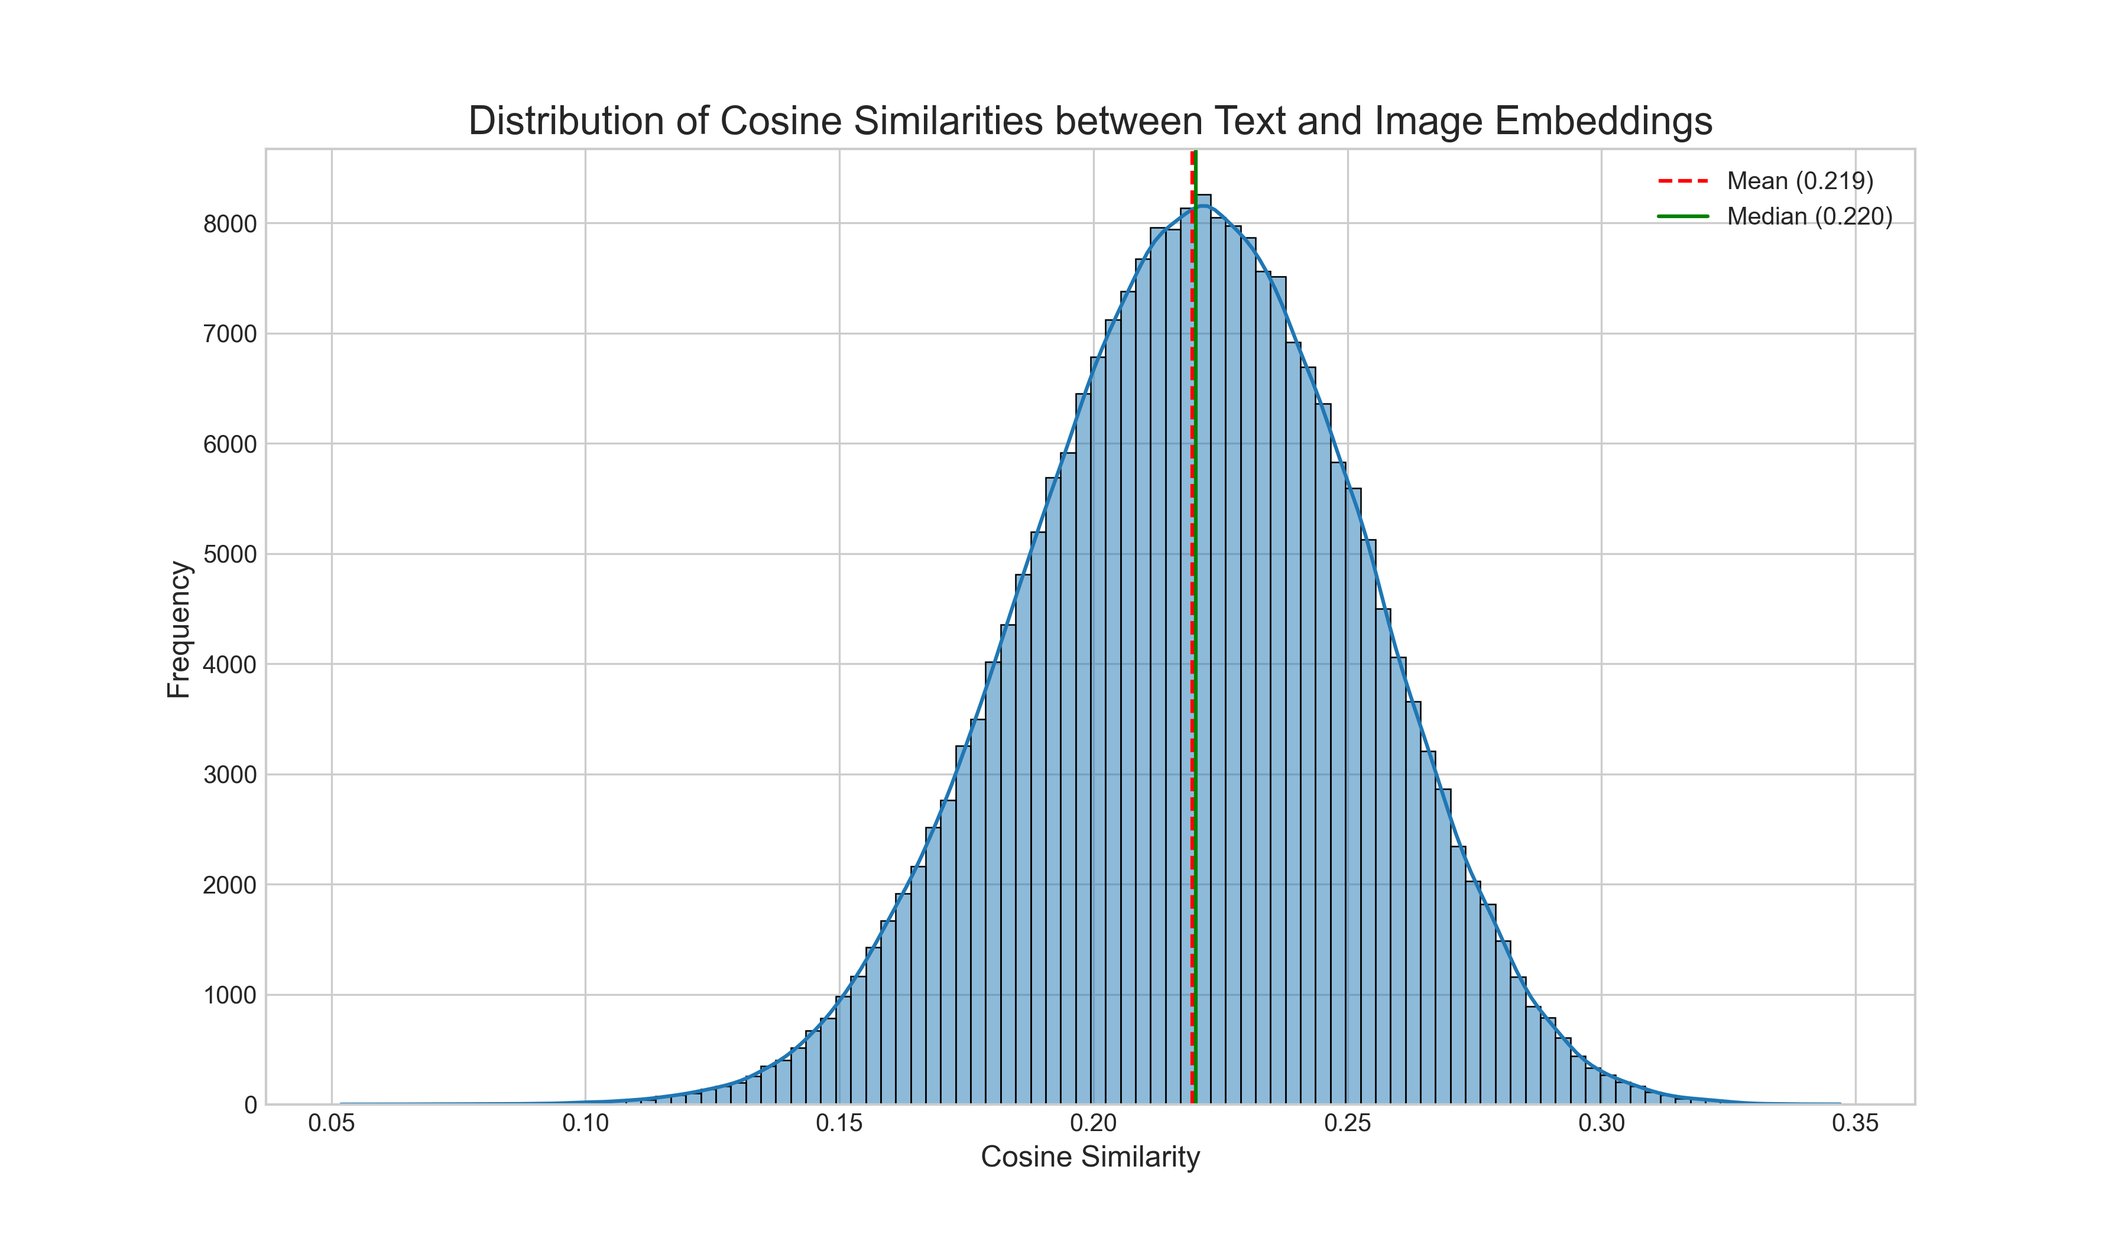
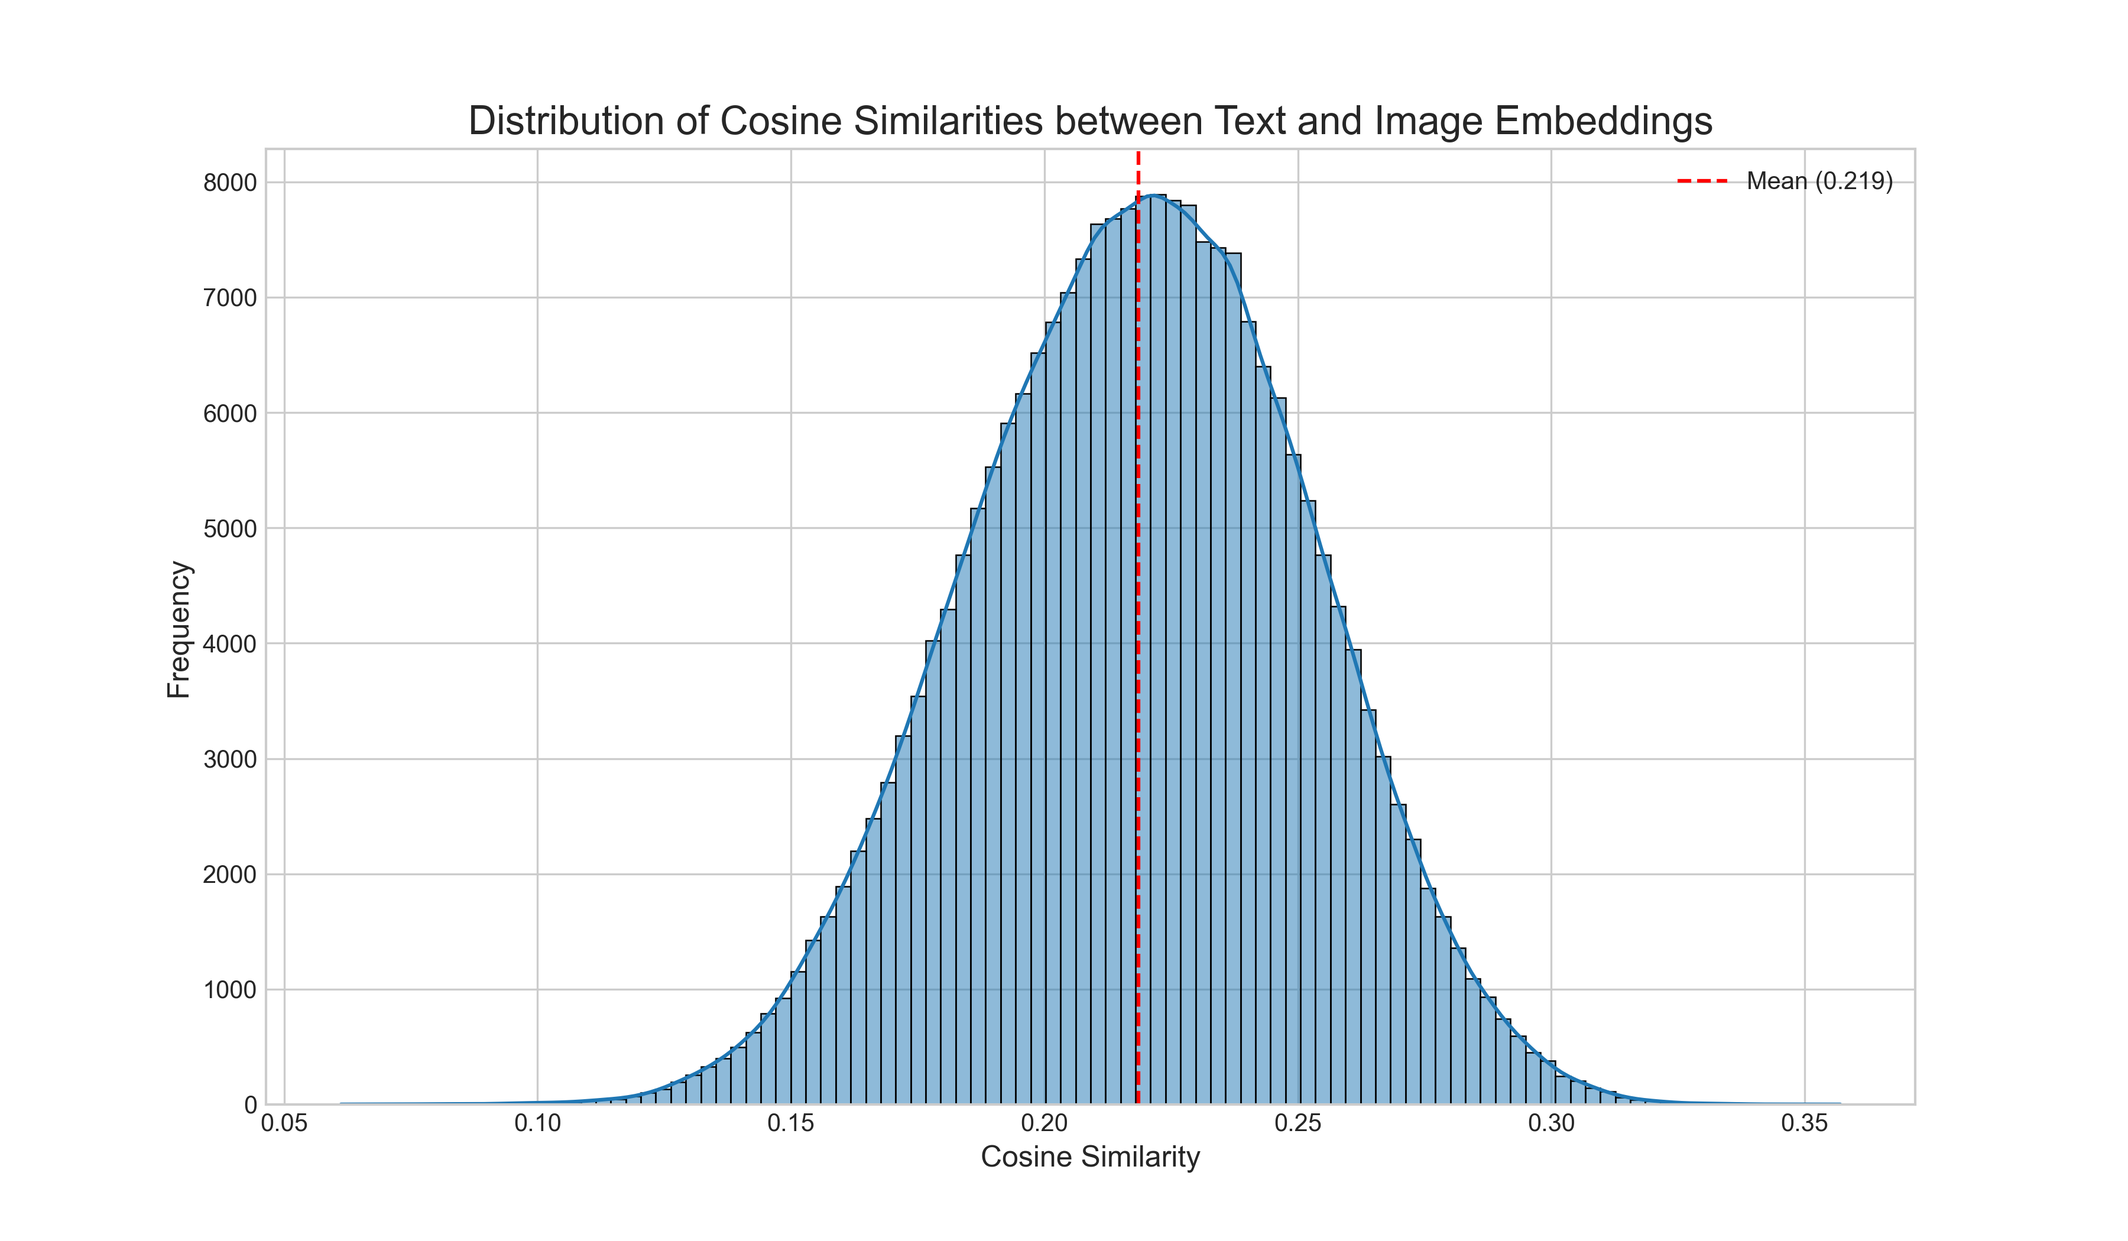
inspect similarities of poi and images

diff --git a/src/data_analysis/plot_similarity_distribution.py b/src/data_analysis/plot_similarity_distribution.py
@@ -1,3 +1,4 @@
+# -*- coding: utf-8 -*-
 import numpy as np
 import json
 import os
@@ -6,88 +7,164 @@ import matplotlib.pyplot as plt
 import seaborn as sns
 from sklearn.metrics.pairwise import cosine_similarity
 import tqdm
+from math import radians, sin, cos, sqrt, atan2
 
-def plot_similarity_distribution(project_root, sample_size=50):
-    """
-    Calculates cosine similarities between a sample of text embeddings and all
-    image embeddings, then plots and saves the distribution as a histogram.
-    """
-    print("Starting similarity distribution analysis...")
+# --- 設定項目 ---
 
-    # --- 1. Define Paths ---
+# 類似度を計算する施設のサンプル数
+SAMPLE_SIZE = 50
+
+# POIからの最大距離（メートル）。この範囲内の画像のみが分析対象となる
+MAX_DISTANCE_METERS = 200
+
+# --- ヘルパー関数 ---
+
+def haversine_distance(lat1, lon1, lat2, lon2):
+    """2つの緯度経度座標間の距離をメートル単位で計算する（ハーバーサイン公式）"""
+    R = 6371000  # 地球の半径（メートル）
+    
+    lat1_rad, lon1_rad = radians(lat1), radians(lon1)
+    lat2_rad, lon2_rad = radians(lat2), radians(lon2)
+    
+    dlon = lon2_rad - lon1_rad
+    dlat = lat2_rad - lat1_rad
+    
+    a = sin(dlat / 2)**2 + cos(lat1_rad) * cos(lat2_rad) * sin(dlon / 2)**2
+    c = 2 * atan2(sqrt(a), sqrt(1 - a))
+    
+    distance = R * c
+    return distance
+
+# --- メインロジック ---
+
+def plot_similarity_distribution_with_distance_filter(project_root, sample_size, max_distance):
+    """
+    指定された距離範囲内の画像のみを対象として、テキストと画像のコサイン類似度を計算し、
+    その分布をヒストグラムとしてプロット・保存する。
+    """
+    print("類似度分布の分析を開始します...")
+    print(f"設定: 施設サンプル数={sample_size}, 画像の最大距離={max_distance}m")
+
+    # --- 1. パス定義 ---
+    poi_data_path = os.path.join(project_root, 'data', 'processed', 'poi', 'filtered_facilities.json')
     facility_emb_path = os.path.join(project_root, 'data', 'processed', 'embedding', 'clip', 'facility_embeddings.npy')
     image_emb_path = os.path.join(project_root, 'data', 'processed', 'embedding', 'clip', 'image_embeddings.npy')
-    output_image_path = os.path.join(project_root, 'images', 'similarity_distribution.png')
+    image_filenames_path = os.path.join(project_root, 'data', 'processed', 'images', 'image_filenames.json')
+    image_gps_path = os.path.join(project_root, 'data', 'processed', 'images', 'image_gps_data.json')
+    output_image_path = os.path.join(project_root, 'images', 'similarity_distribution_with_distance.png')
 
-    # --- 2. Load Embeddings ---
-    print("Loading embedding files...")
+    # --- 2. データ読み込み ---
+    print("データと埋め込みファイルを読み込んでいます...")
     try:
+        with open(poi_data_path, 'r', encoding='utf-8') as f:
+            poi_data = json.load(f)
+        with open(image_filenames_path, 'r', encoding='utf-8') as f:
+            image_filenames = json.load(f)
+        with open(image_gps_path, 'r', encoding='utf-8') as f:
+            image_gps_data = json.load(f)
         facility_embeddings = np.load(facility_emb_path)
         image_embeddings = np.load(image_emb_path)
     except FileNotFoundError as e:
-        print(f"Error: A required file was not found. {e}")
-        print("Please ensure facility and image embeddings have been created.")
+        print(f"エラー: 必要なファイルが見つかりませんでした。 {e}")
+        print("これまでの手順が全て正常に完了しているか確認してください。")
         return
 
+    # --- 3. データ準備 ---
     num_facilities = facility_embeddings.shape[0]
-    print(f"Found {num_facilities} facilities and {image_embeddings.shape[0]} images.")
+    print(f"施設数: {num_facilities}, 画像数: {image_embeddings.shape[0]}")
+    
+    image_gps_list = [image_gps_data.get(fname) for fname in image_filenames]
 
-    # --- 3. Sample Facilities and Calculate Similarities ---
+    # --- 4. 類似度計算 ---
     if num_facilities > sample_size:
-        print(f"Sampling {sample_size} facilities for analysis...")
+        print(f"分析のため、施設を{sample_size}件サンプリングします...")
         facility_indices = random.sample(range(num_facilities), sample_size)
-        sampled_facility_embeddings = facility_embeddings[facility_indices]
     else:
-        print("Using all facilities for analysis as total is less than sample size.")
-        sampled_facility_embeddings = facility_embeddings
+        print("全施設を分析対象とします。")
+        facility_indices = list(range(num_facilities))
 
     all_similarities = []
-    print("Calculating cosine similarities...")
-    for text_embedding in tqdm.tqdm(sampled_facility_embeddings, desc="Processing facilities"):
-        # Calculate similarities between one text embedding and all image embeddings
-        sims = cosine_similarity(text_embedding.reshape(1, -1), image_embeddings)
+    pois_with_images_in_range = 0
+    
+    print("コサイン類似度を計算中...")
+    for i in tqdm.tqdm(facility_indices, desc="施設を処理中"):
+        poi_info = poi_data[i]
+        text_embedding = facility_embeddings[i]
+        poi_location = poi_info.get('google_places_data', {}).get('find_place_geometry', {}).get('location')
+
+        if not poi_location:
+            continue
+
+        # 指定距離内の画像をフィルタリング
+        nearby_image_indices = []
+        for img_idx, gps_info in enumerate(image_gps_list):
+            if gps_info and 'lat' in gps_info and 'lon' in gps_info:
+                distance = haversine_distance(poi_location['lat'], poi_location['lng'], gps_info['lat'], gps_info['lon'])
+                if distance <= max_distance:
+                    nearby_image_indices.append(img_idx)
+        
+        if not nearby_image_indices:
+            continue  # このPOIの近くには対象画像がないのでスキップ
+
+        pois_with_images_in_range += 1
+        
+        # 近くの画像のみを対象に類似度を計算
+        nearby_image_embeddings = image_embeddings[nearby_image_indices]
+        sims = cosine_similarity(text_embedding.reshape(1, -1), nearby_image_embeddings)
         all_similarities.extend(sims.flatten())
 
-    # --- 4. Plot the Distribution ---
-    print("Plotting the distribution...")
+    if not all_similarities:
+        print(f"\n警告: 指定された距離（{max_distance}m）内に、分析対象となる画像を持つ施設が一つも見つかりませんでした。")
+        print("MAX_DISTANCE_METERSの値を大きくして再試行してください。")
+        return
+
+    # --- 5. 分布をプロット ---
+    print("グラフをプロット中...")
     plt.style.use('seaborn-v0_8-whitegrid')
-    fig, ax = plt.subplots(figsize=(12, 7))
+    fig, ax = plt.subplots(figsize=(12, 8))
     
     sns.histplot(all_similarities, bins=100, kde=True, ax=ax)
     
-    ax.set_title('Distribution of Cosine Similarities between Text and Image Embeddings', fontsize=16)
+    title = f'Text-Image Cosine Similarity Distribution (Images within {max_distance}m)'
+    ax.set_title(title, fontsize=16)
     ax.set_xlabel('Cosine Similarity', fontsize=12)
     ax.set_ylabel('Frequency', fontsize=12)
     
-    # Calculate and display statistics
     mean_sim = np.mean(all_similarities)
-    median_sim = np.median(all_similarities)
-    std_sim = np.std(all_similarities)
-    
-    stats_text = f"Mean: {mean_sim:.3f}\nMedian: {median_sim:.3f}\nStd Dev: {std_sim:.3f}"
     ax.axvline(mean_sim, color='r', linestyle='--', label=f'Mean ({mean_sim:.3f})')
-    ax.axvline(median_sim, color='g', linestyle='-', label=f'Median ({median_sim:.3f})')
-    
     ax.legend()
     
-    # --- 5. Save the Plot ---
+    # --- 6. グラフを保存 ---
     try:
         fig.savefig(output_image_path, dpi=300)
-        print(f"\nSuccessfully saved the plot to: {output_image_path}")
+        print(f"\nグラフを保存しました: {output_image_path}")
     except IOError as e:
-        print(f"Error saving plot: {e}")
+        print(f"エラー: グラフの保存に失敗しました - {e}")
+
+    # --- 7. パーセンタイル値を計算して表示 ---
+    p50 = np.percentile(all_similarities, 50)
+    p75 = np.percentile(all_similarities, 75)
+    p90 = np.percentile(all_similarities, 90)
+    p95 = np.percentile(all_similarities, 95)
+
+    print("\n--- 類似度スコアのパーセンタイル値 ---")
+    print(f"分析対象POI数: {pois_with_images_in_range}/{len(facility_indices)}")
+    print(f"総類似度ペア数: {len(all_similarities)}")
+    print(f"中央値 (50パーセンタイル): {p50:.4f}")
+    print(f"上位25%%のしきい値 (75パーセンタイル): {p75:.4f}")
+    print(f"上位10%%のしきい値 (90パーセンタイル): {p90:.4f}")
+    print(f"上位5%%のしきい値 (95パーセンタイル): {p95:.4f}")
 
 if __name__ == '__main__':
     project_root_dir = os.path.abspath(os.path.join(os.path.dirname(__file__), '..', '..'))
     
-    # Check for required libraries
     try:
         import matplotlib
         import seaborn
         import sklearn
         import tqdm
     except ImportError:
-        print("Error: One or more required libraries are not found.")
-        print("Please install them using: pip install matplotlib seaborn scikit-learn tqdm")
+        print("エラー: 必要なライブラリが見つかりません。")
+        print("pip install matplotlib seaborn scikit-learn tqdm でインストールしてください。")
     else:
-        plot_similarity_distribution(project_root_dir)
+        plot_similarity_distribution_with_distance_filter(project_root_dir, SAMPLE_SIZE, MAX_DISTANCE_METERS)

diff --git a/src/data_analysis/inspect_top_similarities.py b/src/data_analysis/inspect_top_similarities.py
@@ -1,0 +1,134 @@
+# -*- coding: utf-8 -*-
+import numpy as np
+import json
+import os
+import heapq
+from sklearn.metrics.pairwise import cosine_similarity
+import tqdm
+from math import radians, sin, cos, sqrt, atan2
+
+# --- 設定項目 ---
+
+# 表示するトップNの数
+TOP_N = 30
+
+# POIからの最大距離（メートル）。この範囲内の画像のみが分析対象となる
+MAX_DISTANCE_METERS = 50
+
+# --- ヘルパー関数 ---
+
+def haversine_distance(lat1, lon1, lat2, lon2):
+    """2つの緯度経度座標間の距離をメートル単位で計算する（ハーバーサイン公式）"""
+    R = 6371000  # 地球の半径（メートル）
+    
+    # 座標がNoneでないことを確認
+    if lat1 is None or lon1 is None or lat2 is None or lon2 is None:
+        return float('inf')
+
+    lat1_rad, lon1_rad = radians(lat1), radians(lon1)
+    lat2_rad, lon2_rad = radians(lat2), radians(lon2)
+    
+    dlon = lon2_rad - lon1_rad
+    dlat = lat2_rad - lat1_rad
+    
+    a = sin(dlat / 2)**2 + cos(lat1_rad) * cos(lat2_rad) * sin(dlon / 2)**2
+    c = 2 * atan2(sqrt(a), sqrt(1 - a))
+    
+    distance = R * c
+    return distance
+
+# --- メインロジック ---
+
+def inspect_top_sim_with_distance(project_root, top_n, max_distance):
+    """
+    指定された距離範囲内のペアの中から、コサイン類似度が最も高いトップNを表示する。
+    """
+    print("類似度上位ペアの調査を開始します...")
+    print(f"設定: トップN={top_n}, 画像の最大距離={max_distance}m")
+
+    # --- 1. パス定義 ---
+    poi_data_path = os.path.join(project_root, 'data', 'processed', 'poi', 'filtered_facilities.json')
+    facility_emb_path = os.path.join(project_root, 'data', 'processed', 'embedding', 'clip', 'facility_embeddings.npy')
+    image_emb_path = os.path.join(project_root, 'data', 'processed', 'embedding', 'clip', 'image_embeddings.npy')
+    image_filenames_path = os.path.join(project_root, 'data', 'processed', 'images', 'image_filenames.json')
+    image_gps_path = os.path.join(project_root, 'data', 'processed', 'images', 'image_gps_data.json')
+
+    # --- 2. データ読み込み ---
+    print("データと埋め込みファイルを読み込んでいます...")
+    try:
+        with open(poi_data_path, 'r', encoding='utf-8') as f:
+            poi_data = json.load(f)
+        with open(image_filenames_path, 'r', encoding='utf-8') as f:
+            image_filenames = json.load(f)
+        with open(image_gps_path, 'r', encoding='utf-8') as f:
+            image_gps_data = json.load(f)
+        facility_embeddings = np.load(facility_emb_path)
+        image_embeddings = np.load(image_emb_path)
+    except FileNotFoundError as e:
+        print(f"エラー: 必要なファイルが見つかりませんでした。 {e}")
+        return
+
+    # --- 3. データ準備 ---
+    num_facilities = facility_embeddings.shape[0]
+    num_images = image_embeddings.shape[0]
+    print(f"施設数: {num_facilities}, 画像数: {num_images}")
+    
+    image_gps_list = [image_gps_data.get(fname) for fname in image_filenames]
+
+    # --- 4. 類似度上位ペアの探索 ---
+    # 効率化のため、最小ヒープ（min-heap）を使用して上位N件を保持する
+    top_pairs_heap = []
+
+    print(f"全ペア（最大約{num_facilities * num_images}件）を計算します。これには数分かかる場合があります...")
+    for i in tqdm.tqdm(range(num_facilities), desc="施設を処理中"):
+        poi_info = poi_data[i]
+        poi_location = poi_info.get('google_places_data', {}).get('find_place_geometry', {}).get('location')
+
+        if not poi_location:
+            continue
+
+        text_embedding = facility_embeddings[i]
+
+        for j, image_gps in enumerate(image_gps_list):
+            if image_gps and 'lat' in image_gps and 'lon' in image_gps:
+                # 距離を計算し、範囲外ならスキップ
+                distance = haversine_distance(poi_location['lat'], poi_location['lng'], image_gps['lat'], image_gps['lon'])
+                if distance > max_distance:
+                    continue
+                
+                # 距離範囲内の場合のみ、類似度を計算
+                image_embedding = image_embeddings[j]
+                score = cosine_similarity(text_embedding.reshape(1, -1), image_embedding.reshape(1, -1))[0][0]
+                
+                # ヒープを使って効率的にトップNを保持
+                if len(top_pairs_heap) < top_n:
+                    heapq.heappush(top_pairs_heap, (score, i, j, distance))
+                elif score > top_pairs_heap[0][0]:
+                    heapq.heappushpop(top_pairs_heap, (score, i, j, distance))
+
+    # --- 5. 結果表示 ---
+    if not top_pairs_heap:
+        print(f"\n警告: 指定された距離（{max_distance}m）内に、分析対象となるペアが一つも見つかりませんでした。")
+        return
+
+    # 類似度が高い順にソートして表示
+    sorted_top_pairs = sorted(top_pairs_heap, key=lambda x: x[0], reverse=True)
+
+    print(f"\n--- 類似度トップ{top_n}（距離{max_distance}m以内）のテキスト・画像ペア ---")
+    for rank, (score, facility_idx, image_idx, dist) in enumerate(sorted_top_pairs, 1):
+        poi_name = poi_data[facility_idx].get('name', '不明なPOI')
+        image_name = image_filenames[image_idx]
+        
+        print(f"{rank:>2}. Score: {score:.4f} | Dist: {dist:.1f}m | POI: \"{poi_name}\" | Image: \"{image_name}\"")
+
+if __name__ == '__main__':
+    project_root_dir = os.path.abspath(os.path.join(os.path.dirname(__file__), '..', '..'))
+    
+    try:
+        import sklearn
+        import tqdm
+    except ImportError:
+        print("エラー: 必要なライブラリが見つかりません。")
+        print("pip install scikit-learn tqdm でインストールしてください。")
+    else:
+        inspect_top_sim_with_distance(project_root_dir, TOP_N, MAX_DISTANCE_METERS)

diff --git a/src/preprocess/combine_embeddings.py b/src/preprocess/combine_embeddings.py
@@ -8,7 +8,7 @@ import tqdm
 # --- Configuration ---
 # Alpha: Balances the influence of text vs. images.
 # 0.0 = 100% image, 1.0 = 100% text.
-ALPHA = 0.8
+ALPHA = 0.5
 
 # Sigma (in meters): Controls how quickly the geographic weight falls off.
 # A smaller sigma means only very close images have a high weight.
@@ -17,7 +17,7 @@ SIGMA = 200.0
 
 # Similarity Threshold: Images with a cosine similarity below this value will be ignored.
 # This helps filter out noisy or irrelevant images.
-SIMILARITY_THRESHOLD = 0.23
+SIMILARITY_THRESHOLD = 0.2611
 
 # --- Helper Functions ---
 
@@ -59,7 +59,7 @@ def combine_embeddings(project_root, alpha, sigma, similarity_threshold):
     # Corrected path for image GPS data as per user feedback
     image_gps_path = os.path.join(project_root, 'data', 'processed', 'images', 'image_gps_data.json')
     
-    output_path = os.path.join(project_root, 'data', 'processed', 'embedding', 'clip', f'combined_facility_embeddings_023_08.npy')
+    output_path = os.path.join(project_root, 'data', 'processed', 'embedding', 'clip', f'combined_facility_embeddings_02611_05.npy')
 
     # --- 2. Load All Data ---
     print("Loading data files...")

diff --git a/src/evaluation/probe_concepts.py b/src/evaluation/probe_concepts.py
@@ -61,7 +61,7 @@ def load_data_and_model(model_type: str):
     logging.info(f"--- データ読み込み開始 (入力元: {input_dir}) ---")
     
     embedding_paths = {
-        "オリジナル": input_dir / "combined_facility_embeddings_023_05.npy",
+        "オリジナル": input_dir / "combined_facility_embeddings_02611_05.npy",
         # "単純減算": input_dir / "facility_embeddings_simple_sub.npy",
         # "直交射影": input_dir / "facility_embeddings_projected_sub.npy",
     }
